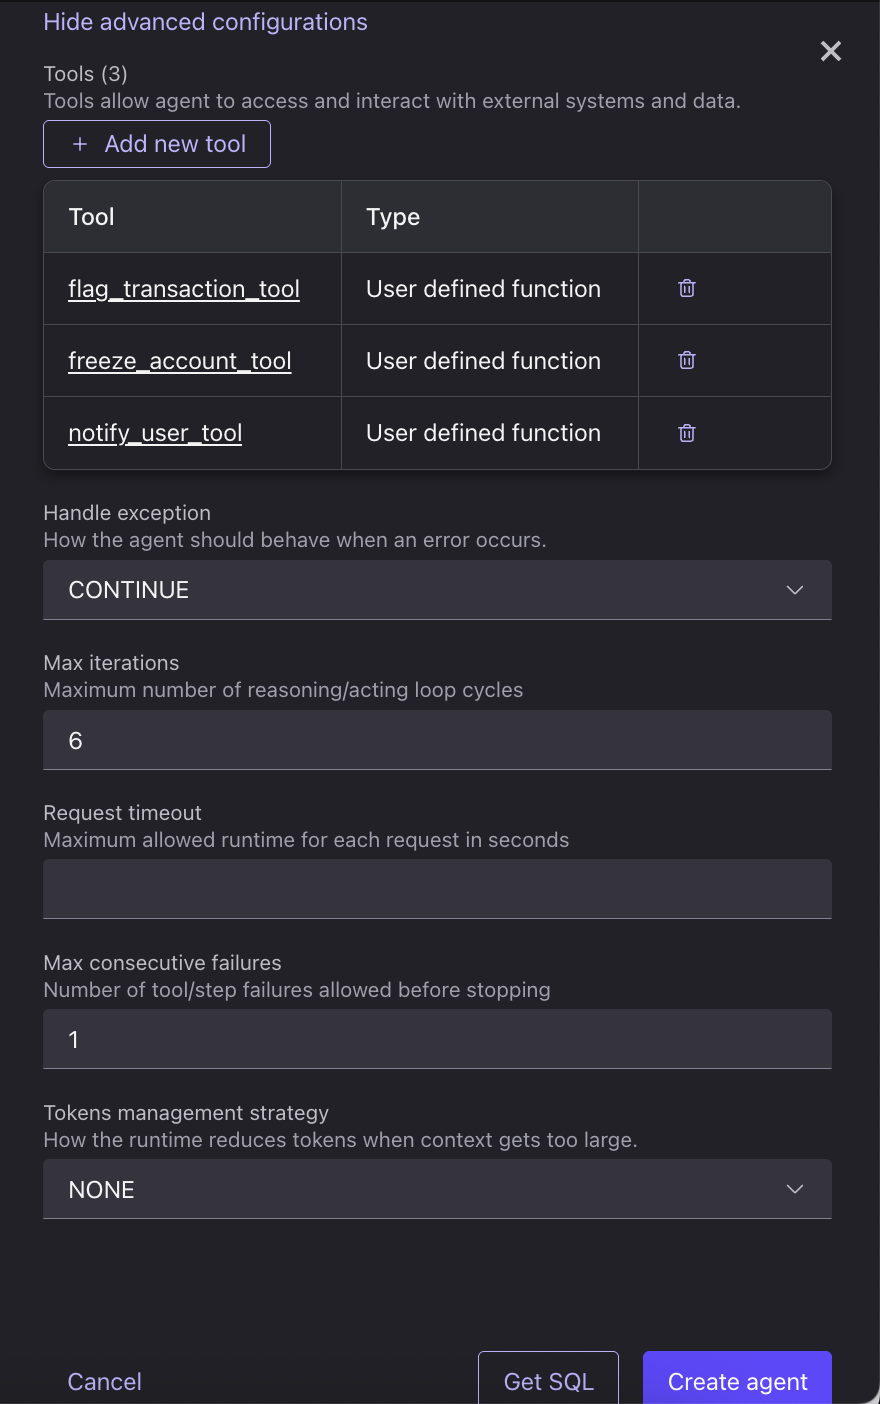
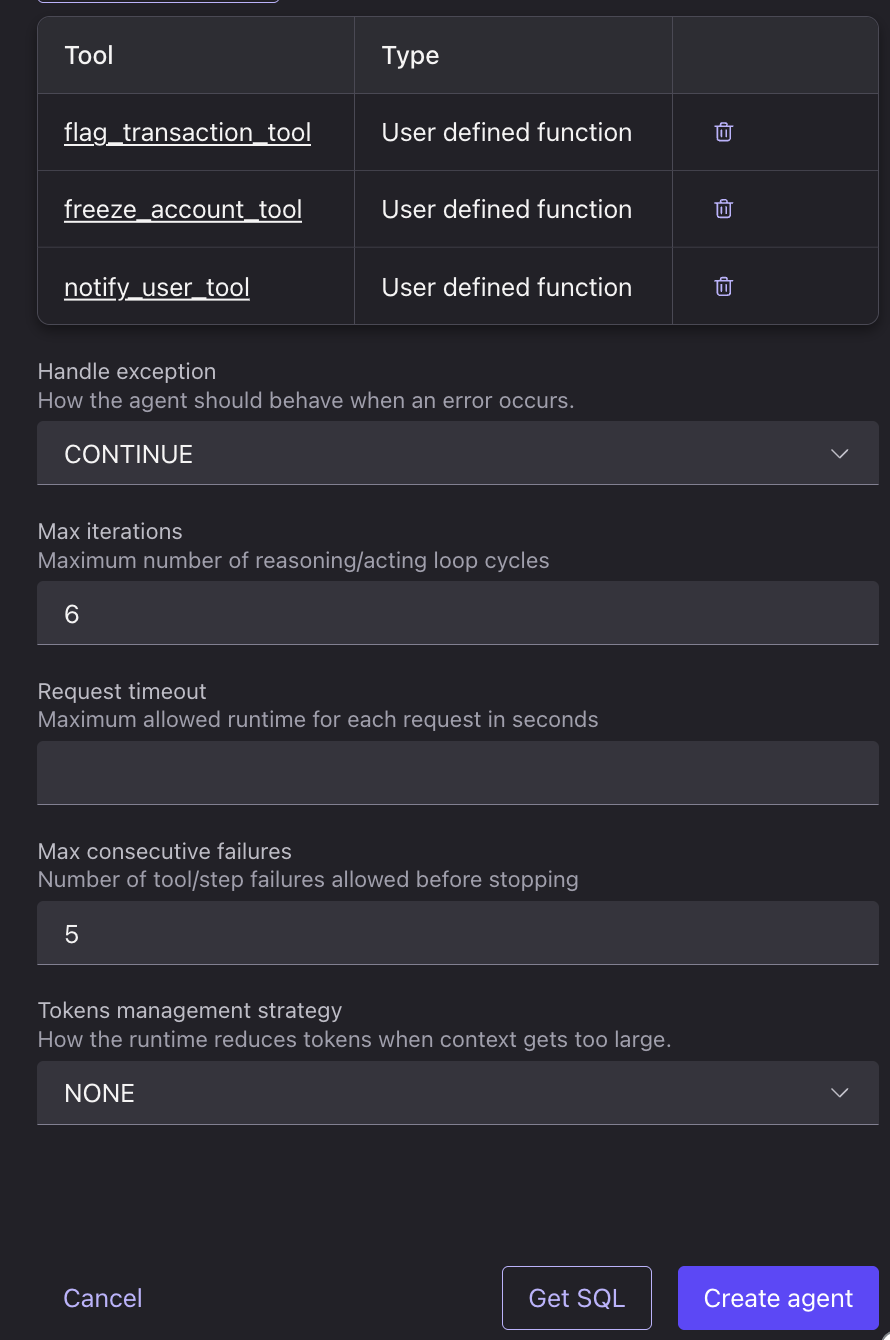
Simplify workshop setup steps (#12)
* Simplify workshop setup: credit card only, git clone, no model step

- Remove promo code option and screenshot from billing step
- Replace workshop folder pull with git clone; drop terminal-open step
- Remove CREATE MODEL section; agent uses system.anthropic.claude-opus-4-8
- Renumber sections and update CLAUDE.md sync notes

* Add model dropdown screenshot, align workshop model with UI, update README

- Add 7_step7_model.png under Option A step 3
- Use system.anthropic.claude-sonnet-4-6 in both UI and SQL options
- README: drop model from workshop pipeline and "already exists" note

* Revert system-model workshop changes; create the model manually again

System models can't be used directly in CREATE AGENT yet, so restore the
CREATE MODEL section, the <model-name> placeholder, and the README/CLAUDE.md
notes, and remove the model dropdown screenshot.

* Move Model step after Instructions; fix advanced-config screenshot

The old screenshot showed max consecutive failures = 1; the new one shows 5.

---------

diff --git a/WORKSHOP.md b/WORKSHOP.md
@@ -24,7 +24,7 @@ to a `fraud_alerts` stream.
 
 These are **not** part of the timed hour. Complete them before the workshop:
 
-- [ ] **Confluent Cloud account and a payment method (or promo code)** — the two steps in
+- [ ] **Confluent Cloud account and a payment method** — the two steps in
       [Set up Confluent Cloud](#1-set-up-confluent-cloud) below. (`uv run deploy` creates the
       Cloud API key for you.)
 - [ ] **No AWS account needed** — the agent's Claude model is CSP Hosted by Confluent.
@@ -48,9 +48,9 @@ These are **not** part of the timed hour. Complete them before the workshop:
 > creates its own environment *and* cluster for you. Click the Confluent logo (top-left) to
 > exit the wizard.
 
-#### Step 2 — Add a payment method (credit card or promo code)
+#### Step 2 — Add a payment method (credit card)
 
-A payment method or promo code is required for Terraform to create a **Standard** cluster. Free
+A payment method is required for Terraform to create a **Standard** cluster. Free
 credit is used first, so you typically won't be charged during the workshop.
 
 > [!TIP]
@@ -59,49 +59,26 @@ credit is used first, so you typically won't be charged during the workshop.
 
 1. Go directly to **[Billing & payment](https://confluent.cloud/settings/billing/payment)**.
 2. Open the **Payment details and contacts** tab.
-3. Choose **one** of the two options:
+3. Click **Add credit card / bank account**, enter your **card details**, then **Save**.
 
-   - **Option A — Credit card:** click **Add credit card / bank account**, enter your **card
-     details**, then **Save**.
-
-     <img src="images/workshop/0_step2_1.png" alt="Payment details and contacts — Add credit card / bank account" width="500">
-
-   - **Option B — Promo code (provided by the workshop host):** scroll down to **Promos**, click
-     **+ Promo code**, enter the code you were given, then **Apply**. No credit card is needed.
-
-     <img src="images/workshop/0_step2_2.png" alt="Billing and payment — Promos, + Promo code" width="500">
+   <img src="images/workshop/0_step2_1.png" alt="Payment details and contacts — Add credit card / bank account" width="500">
 
 ## 2. Deploy the infrastructure (~8–10 min)
 
-1. Open a **Terminal** on your machine — click **Activities** (top-left), then the **Terminal**
-   icon in the dock.
-
-   <img src="images/workshop/2_terminal_1.png" alt="Open Terminal from the dock" width="500">
-
-2. Go to the workshop folder and pull the latest changes:
-
-   ```bash
-   cd workshop/4548/
-   git pull
-   ```
-
-   <details>
-   <summary><strong>Using your own machine?</strong> Clone the repo instead</summary>
+1. Clone the repo and go into it:
 
    ```bash
    git clone https://github.com/confluentinc/demo-confluent-fraud-agent.git
    cd demo-confluent-fraud-agent
    ```
 
-   </details>
-
-3. **Only if you signed up to Confluent Cloud with SSO:** sign in to the Confluent CLI first. Skip this if you signed up with email and password.
+2. **Only if you signed up to Confluent Cloud with SSO:** sign in to the Confluent CLI first. Skip this if you signed up with email and password.
 
    ```bash
    confluent login
    ```
 
-4. Deploy in workshop mode:
+3. Deploy in workshop mode:
 
    ```bash
    uv run deploy --workshop
@@ -111,7 +88,7 @@ credit is used first, so you typically won't be charged during the workshop.
 
    | Prompt | Where to get it |
    |---|---|
-   | Confluent Cloud email / password | Your Confluent Cloud login: the **email and password you used to sign up** (**single sign-on?** Press Enter at this prompt after the CLI login in step 3. If you skipped it, `deploy` offers to run the SSO login for you) |
+   | Confluent Cloud email / password | Your Confluent Cloud login: the **email and password you used to sign up** (**single sign-on?** Press Enter at this prompt after the CLI login in step 2. If you skipped it, `deploy` offers to run the SSO login for you) |
    | Generate new Confluent Cloud API keys? | Answer `y` — `uv` creates the API key and secret for you |
    | Confluent Cloud API Key / Secret | Press **Enter** to confirm the key and secret `uv` just created |
 
@@ -352,8 +329,7 @@ created, not a `system.*` model).
    <img src="images/workshop/7_step7_1.png" alt="Left panel — Agents → Create an agent" width="450">
 
 2. **Agent name** — `fraud_detection_agent`.
-3. 🎯 **Model** — pick the model you created from the dropdown (not a `system.*` model).
-4. **Instructions** — paste this fraud-policy prompt:
+3. **Instructions** — paste this fraud-policy prompt:
 
   ```text
   You are a real-time fraud detection analyst.
@@ -393,6 +369,8 @@ created, not a `system.*` model).
     self-corrections, no markdown, no code fences. Put all explanation inside "reasoning", nowhere else.
   {"user_id": "<copy from input>", "risk_score": <0-100 integer>, "reasoning": "<one or two sentences>", "actions_taken": ["freeze_account"|"flag_transaction"|"notify_user"], "flagged_transaction_ids": ["<copied transaction ids>"]}
   ```
+
+4. 🎯 **Model** — pick the model you created from the dropdown (not a `system.*` model).
 
    <img src="images/workshop/7_step7_2.png" alt="Create Streaming Agent — name, instructions, model" width="500">
 
